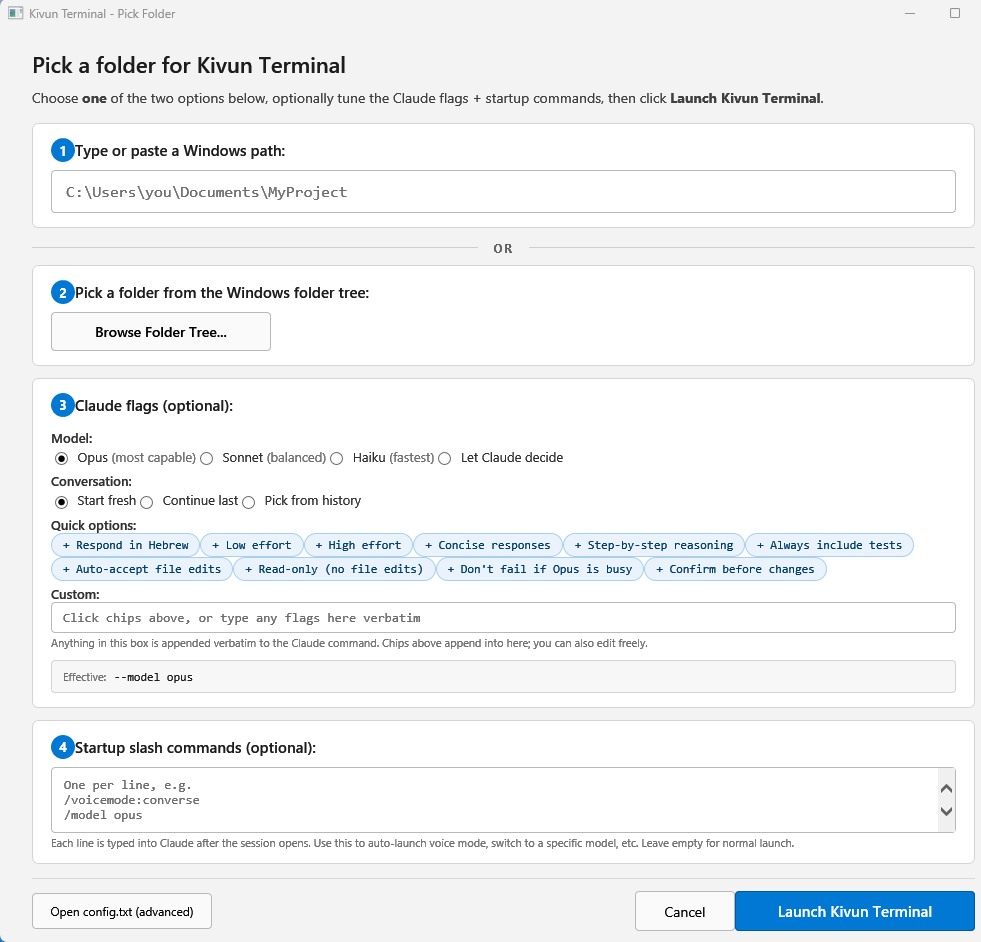
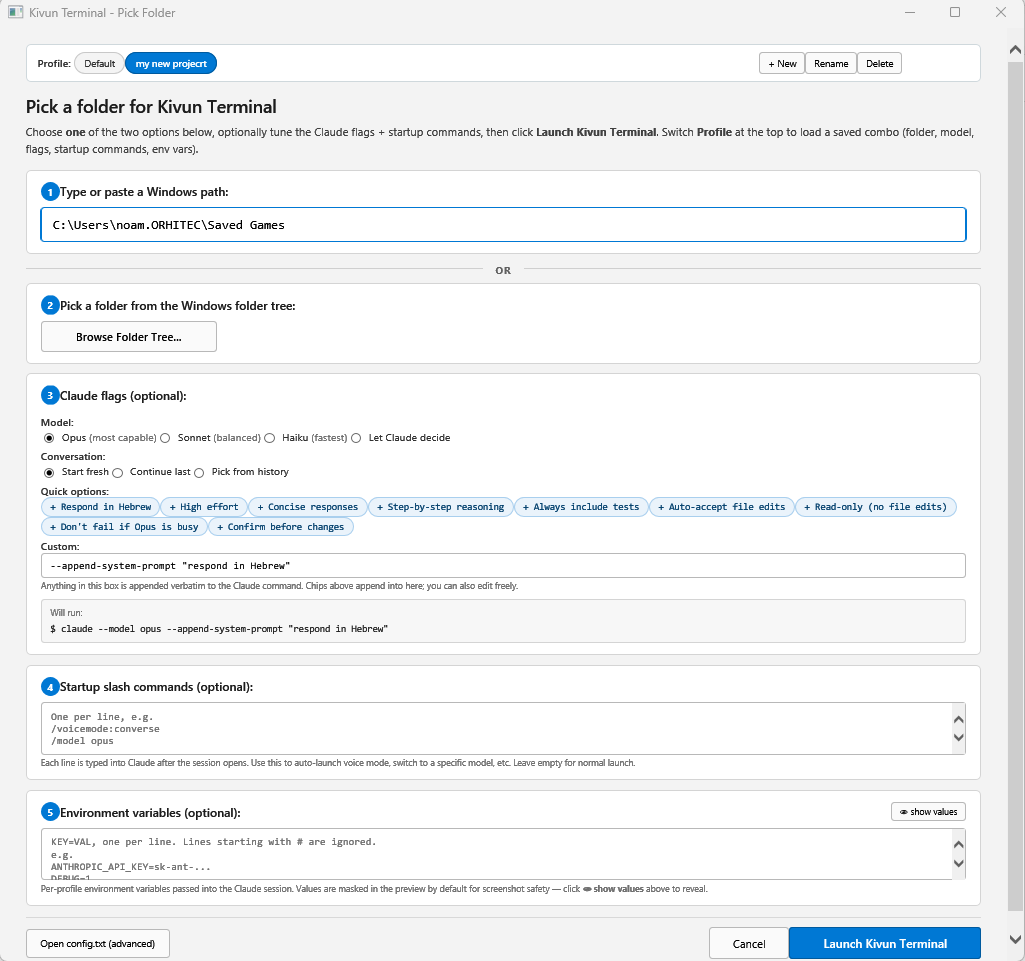
docs: highlight named profiles + new picker.png with profile bar
- Compare table: new row for "Named profiles per project" marked 🆕 v1.4.0,
  spelling out the env-var/WSLENV propagation and screenshot-safe masking.
- "What's included" bullet list reordered: profiles is now the lead item
  (was second), reflecting v1.4.x being primarily a profiles release.
- Picker bullet drops "Low effort" from chip examples (v1.4.2 removed it)
  and removes the stale "dropdown" wording (v1.4.1 swapped to chip row).
- Screenshot alt text updated to describe the v1.4.x dialog layout.
- Hebrew section gets the equivalent profiles bullet with 🆕 marker
  and the same WSLENV / masked-preview detail in plain Hebrew.
- New picker.png at repo root (1025x961) showing the profile bar.

Changed region(s): [[0.0, 0.0, 1.0, 1.0], [0.4893, 0.4618, 0.581, 0.4926], [0.9174, 0.7389, 0.948, 0.7696]]

diff --git a/README.md b/README.md
@@ -57,6 +57,7 @@
 | **Live status bar** (model, context %, usage) | ✅ | ✅ |
 | **Light-blue Kivun theme** | ✅ Windows Terminal | ✅ Konsole |
 | **Right-click "Open with…" on a folder** | ✅ Windows Explorer | ✅ Windows Explorer + Linux file managers |
+| **Named profiles per project** (folder + model + flags + env vars + startup slash-commands) | ❌ | ✅ **🆕 v1.4.0** — chip row at top of picker; per-profile `ANTHROPIC_API_KEY`/`DEBUG`/`MCP_*` propagated via `WSLENV`; masked in preview by default |
 | **Startup time** | ~2 s | ~6 s |
 | **Install size on Windows** | ~150 MB | ~2 GB (includes Ubuntu + Konsole) |
 | **macOS support** | ✅ | ❌ Deprecated as of v1.2.4 (no Mac terminal handles mixed Hebrew+English — see [`mac/README.md`](mac/README.md)) |
@@ -67,11 +68,11 @@
 ## What's included out of the box
 
 <p align="center">
-  <img src="picker.png" alt="Kivun Terminal folder picker — folder selection, model + flag chips, startup slash commands, all in one dialog" width="780">
+  <img src="picker.png" alt="Kivun Terminal folder picker (v1.4.x) — profile chip row at top, folder selection, model radios, flag chips, startup slash-commands, env-vars section, all in one dialog" width="780">
 </p>
 
-- **Folder picker dialog** on the desktop shortcut (screenshot above) — browse the folder tree **or** type/paste a Windows path, plus inline radio-button model selection (Opus / Sonnet / Haiku), one-click flag chips (Respond in Hebrew, Low effort, High effort, Auto-accept file edits, Read-only, etc.), and a textarea for startup slash commands like `/voicemode:converse`.
-- **Named profiles (v1.4.0)** — save folder + model + flags + startup commands + env vars per project, switch between them from the dropdown at the top of the picker. Per-profile env vars (`ANTHROPIC_API_KEY`, `DEBUG`, custom `MCP_*`, …) are propagated through `WSLENV` on Windows / `export` on Linux. Values are masked in the resolved-command preview by default for screenshot safety.
+- **🆕 Named profiles (v1.4.0+)** — save folder + model + flags + startup slash-commands + environment variables per project. The chip row at the top of the picker lets you switch between profiles in one click; the active profile is highlighted blue. Per-profile env vars (`ANTHROPIC_API_KEY`, `DEBUG`, custom `MCP_*`, …) are propagated through `WSLENV` on Windows / `export` on Linux so they reach the Claude Code session. Values are masked in the resolved-command preview by default for screenshot safety; click `👁 show values` to reveal.
+- **Folder picker dialog** on the desktop shortcut (screenshot above) — browse the folder tree **or** type/paste a Windows path, plus inline radio-button model selection (Opus / Sonnet / Haiku), one-click flag chips (Respond in Hebrew, High effort, Auto-accept file edits, Read-only, etc.), and a textarea for startup slash commands like `/voicemode:converse`.
 - **Right-click "Open with Kivun Terminal"** on any folder in File Explorer — launches straight into that folder, skipping the picker.
 - **Live two-line statusline** at the bottom of every Claude Code session — model, context %, total tokens, session duration, and 5-hour / 7-day usage with countdown to reset.
 - **Light-blue Kivun theme** for Konsole (`#C8E6FF` background) — easy on the eyes, on by default. Disable via `TERMINAL_COLOR=default`.
@@ -267,6 +268,7 @@ The surfaces (generic browser DOM, Claude.ai web UI, VS Code / IDE webview, Micr
 - ✅ סטטוסליין חי בתחתית המסך (מודל פעיל, אחוז קונטקסט, מגבלות שימוש)
 - ✅ קיצור דרך לשולחן העבודה + תפריט קליק ימני על תיקיות
 - ✅ Folder picker - דיאלוג אחד: עיון בעץ התיקיות או הקלדה/הדבקה של נתיב באותו חלון
+- 🆕 <strong>פרופילים בעלי שם לפי פרויקט</strong> (v1.4.0) - שמירת תיקייה + מודל + flags + פקודות slash + משתני סביבה לכל פרויקט. שורת הצ'יפים בראש החלון מאפשרת מעבר בין פרופילים בקליק אחד; הפרופיל הפעיל מודגש בכחול. משתני הסביבה לכל פרופיל (כמו <code>ANTHROPIC_API_KEY</code>) עוברים דרך <code>WSLENV</code> ל-WSL ומגיעים ל-Claude Code. ערכים מוסתרים בתצוגה כברירת מחדל - בטוח לצילום מסך.
 - ✅ Alt+Shift להחלפה בין עברית לאנגלית בתוך הטרמינל
 - ✅ נתמך על Windows ו-Linux (apt/dnf/pacman/zypper). תמיכת macOS הוסרה ב-v1.2.4 - ראו <a href="mac/README.md"><code>mac/README.md</code></a>
 